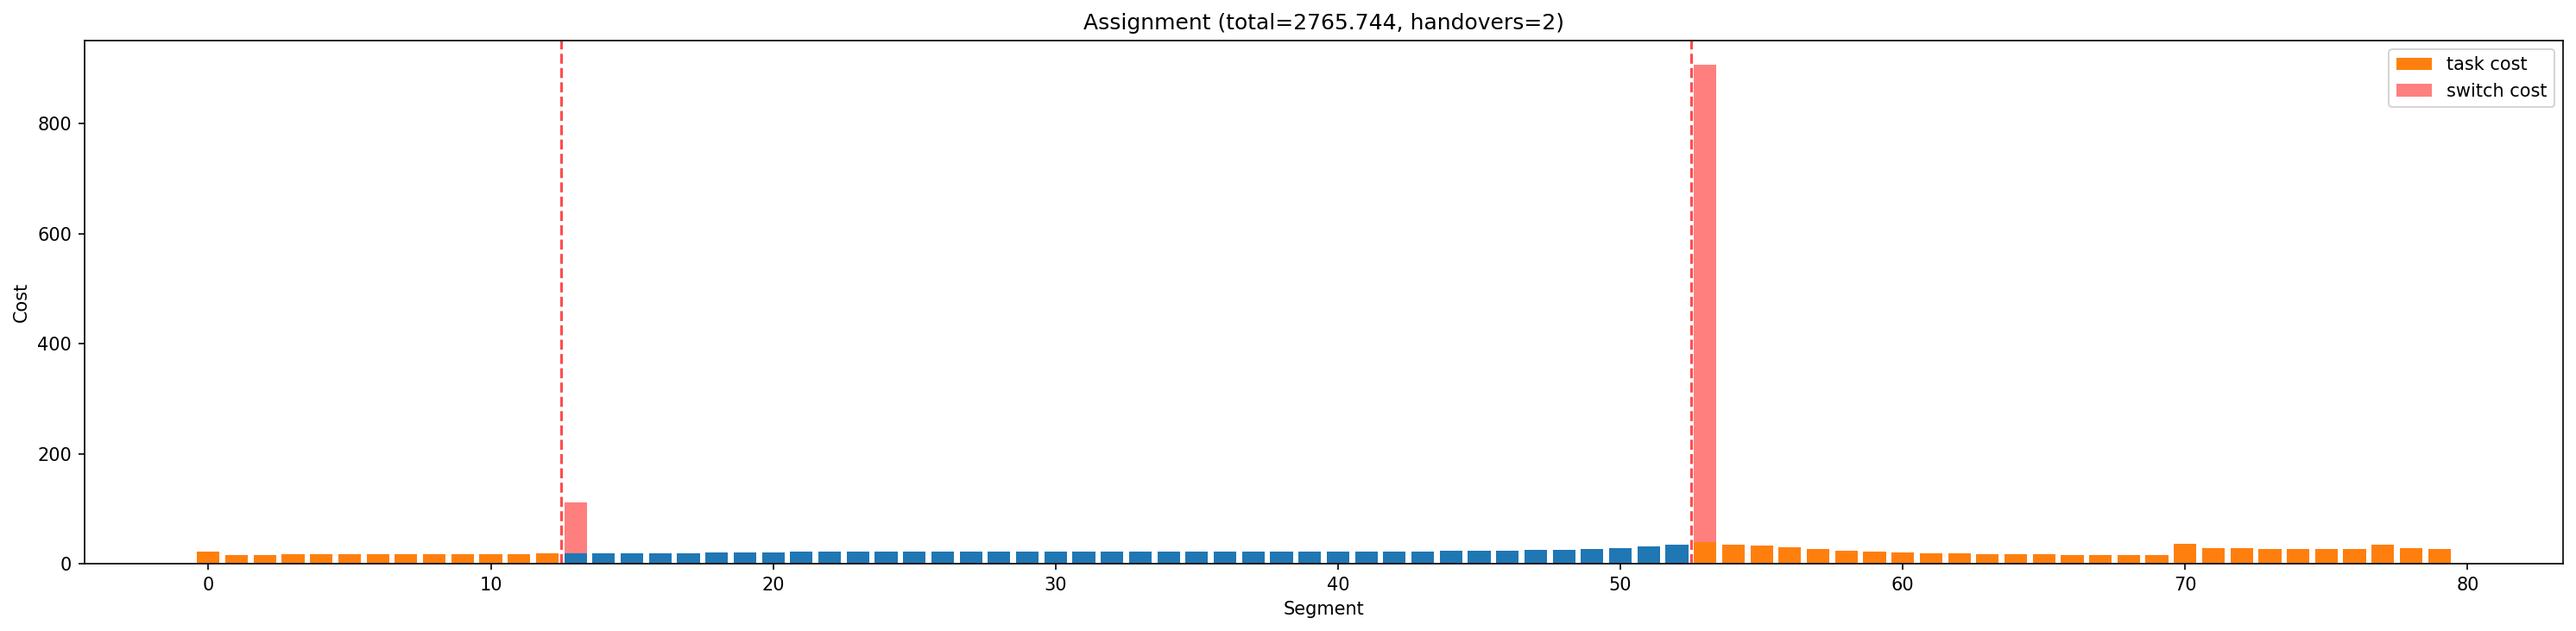
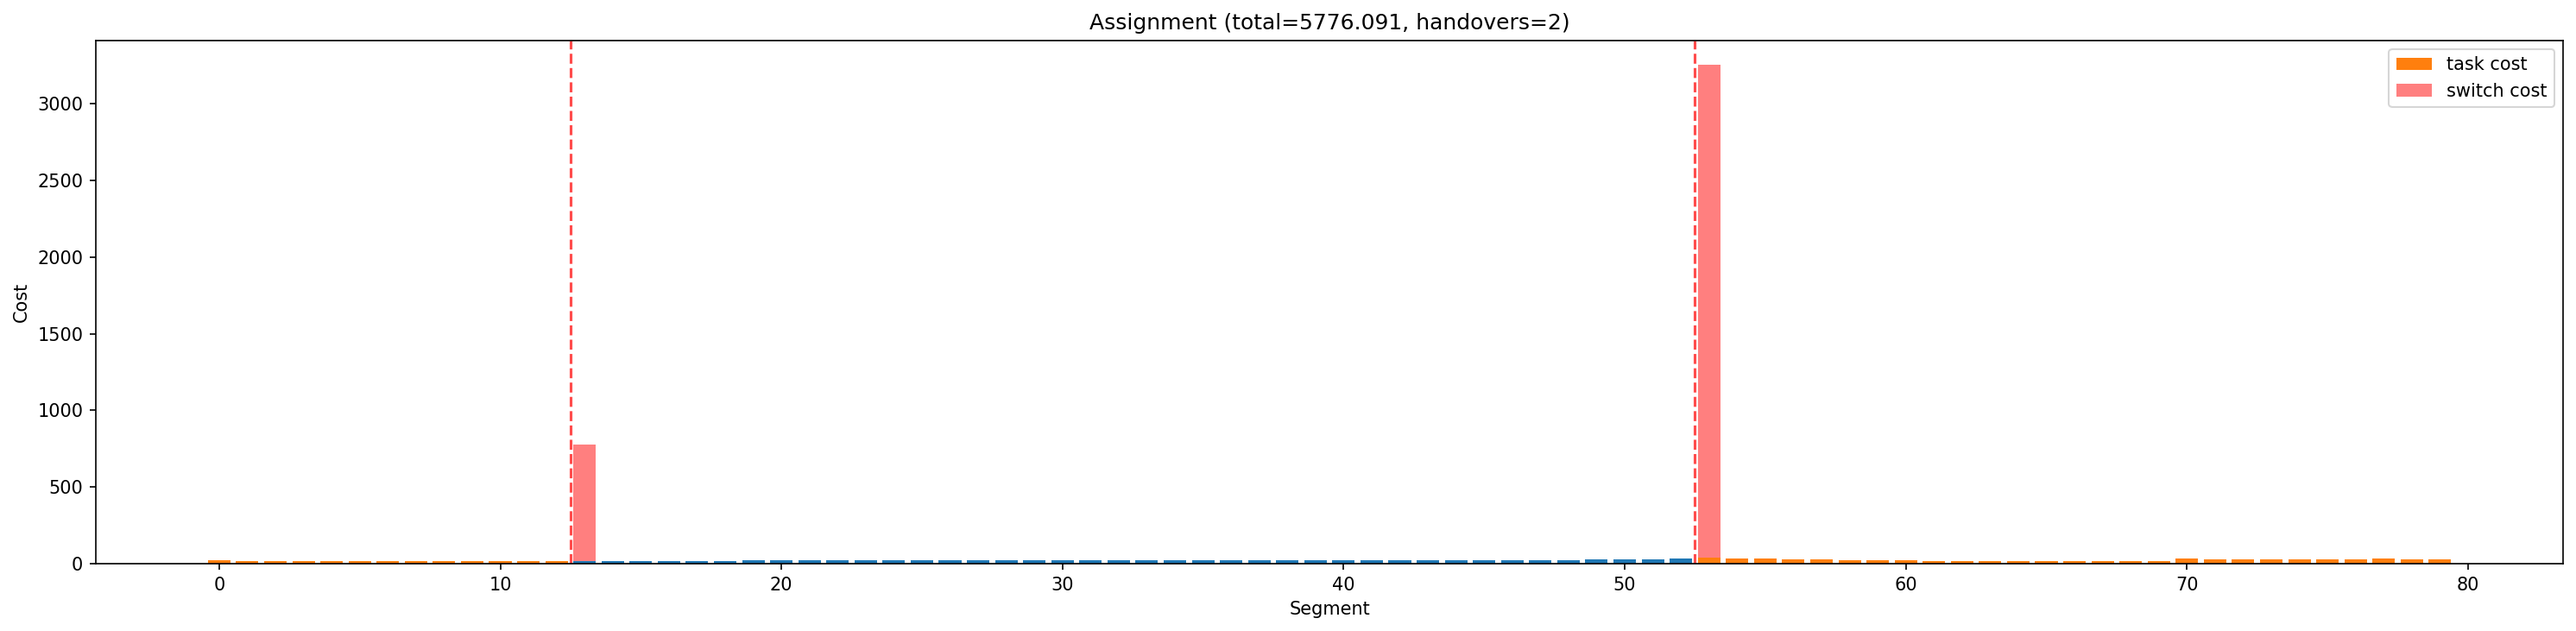
fixes

diff --git a/src/bimanual_manipulation/planning/dual_arm/planner.py b/src/bimanual_manipulation/planning/dual_arm/planner.py
@@ -523,7 +523,6 @@ class DualArmParallelPlanner:
         if m.freeze_task is not None:
             constraints.append(m.freeze_task)
 
-        # --- Primary solve (with collision avoidance) -----------------
         try:
             vel = mink.solve_ik(
                 configuration=m.config,
@@ -537,30 +536,6 @@ class DualArmParallelPlanner:
             return m.config.q[m.qpos_idx_b].copy()
         except Exception as exc_primary:
             logger.warning("Primary mink solve_ik failed: %s", exc_primary,)
-
-        # --- Relaxed fallback (drop collision avoidance) --------------
-        limits_relaxed = [
-            lim for lim in limits_full
-            if lim is not m.collision_limit
-        ]
-        try:
-            vel = mink.solve_ik(
-                configuration=m.config,
-                tasks=tasks,
-                dt=constants.MINK_DT,
-                solver=constants.MINK_QP_SOLVER,
-                limits=limits_relaxed if limits_relaxed else None,
-                constraints=constraints if constraints else None,
-            )
-            logger.debug("Primary QP infeasible — relaxed solve succeeded.")
-            m.config.integrate_inplace(vel, constants.MINK_DT)
-            return m.config.q[m.qpos_idx_b].copy()
-        except Exception as exc_relaxed:
-            logger.debug(
-                "Both primary and relaxed mink solve_ik failed: %s",
-                exc_relaxed,
-            )
-            return None
 
     # ------------------------------------------------------------------
     # Trajectory resolution

diff --git a/src/bimanual_manipulation/constants.py b/src/bimanual_manipulation/constants.py
@@ -258,12 +258,12 @@ ASSIGNMENT_EPSILON = 1e-6     # numerical floor for manipulability reciprocal
 ASSIGNMENT_FALLBACK_SWITCH_COST = 1e6  # switching cost when no IK solver is available
 
 # Coarse handover resolution for cost evaluation (fewer IK calls)
-COST_EVAL_APPROACH_STEPS = 5      # vs 50 default in DualArmHandoverPlanner
+COST_EVAL_APPROACH_STEPS = 15      # vs 50 default in DualArmHandoverPlanner
 COST_EVAL_RAMP_STEPS = 0         # skip force-ramp phase entirely for cost eval
-COST_EVAL_RETREAT_STEPS = 3      # vs 30 default — only check start/end of retreat
+COST_EVAL_RETREAT_STEPS = 9      # vs 30 default — only check start/end of retreat
 
 # Early-exit flags: when True, a single IK failure or collision
-# immediately returns inf cost instead of adding a soft penalty.
+# immediately returns inf cost.
 HANDOVER_EARLY_EXIT_ON_IK_FAILURE = True
 HANDOVER_EARLY_EXIT_ON_COLLISION = True
 
